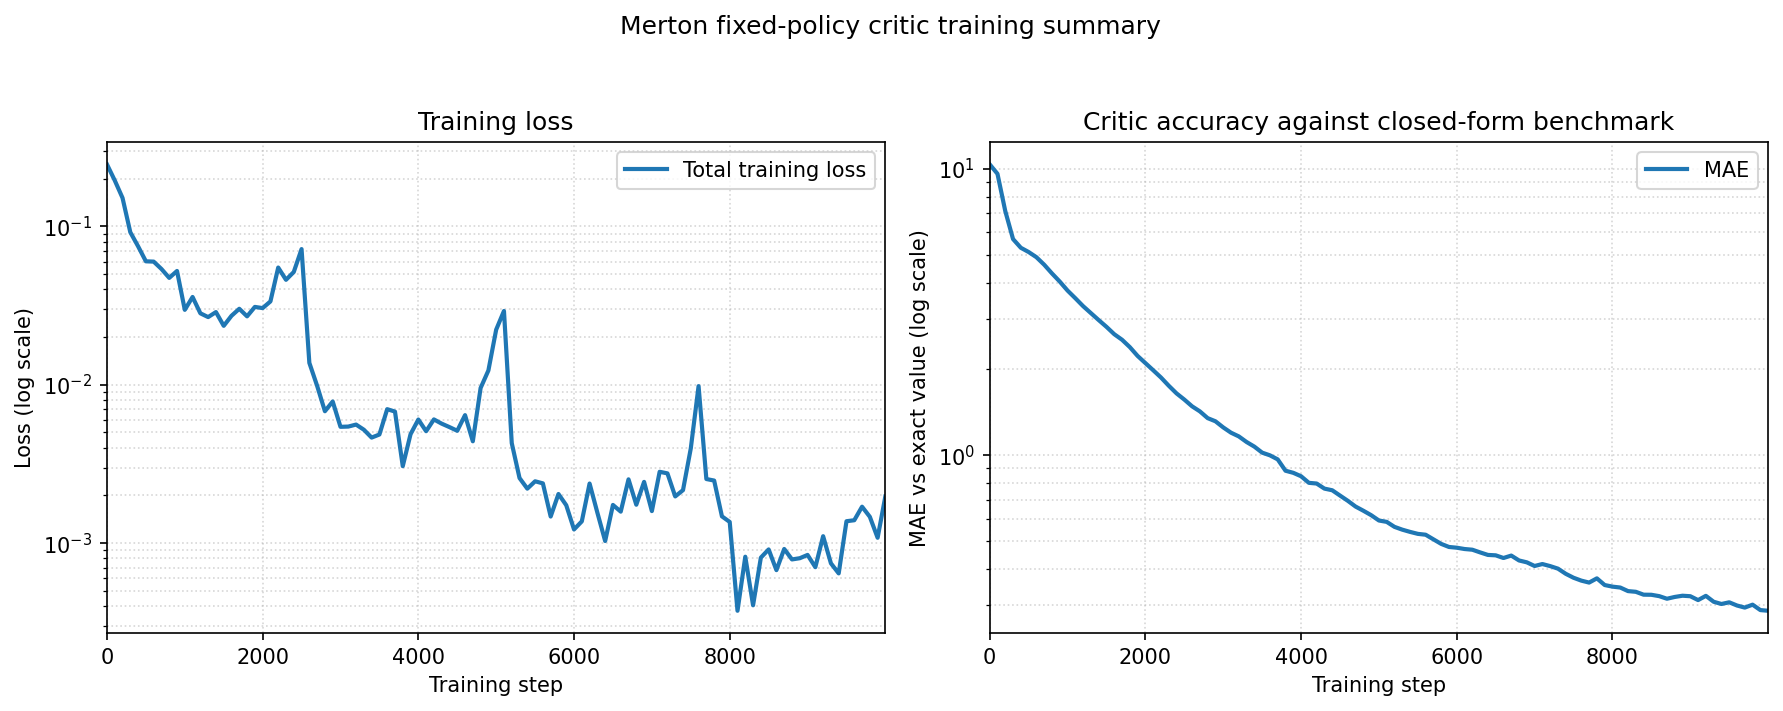
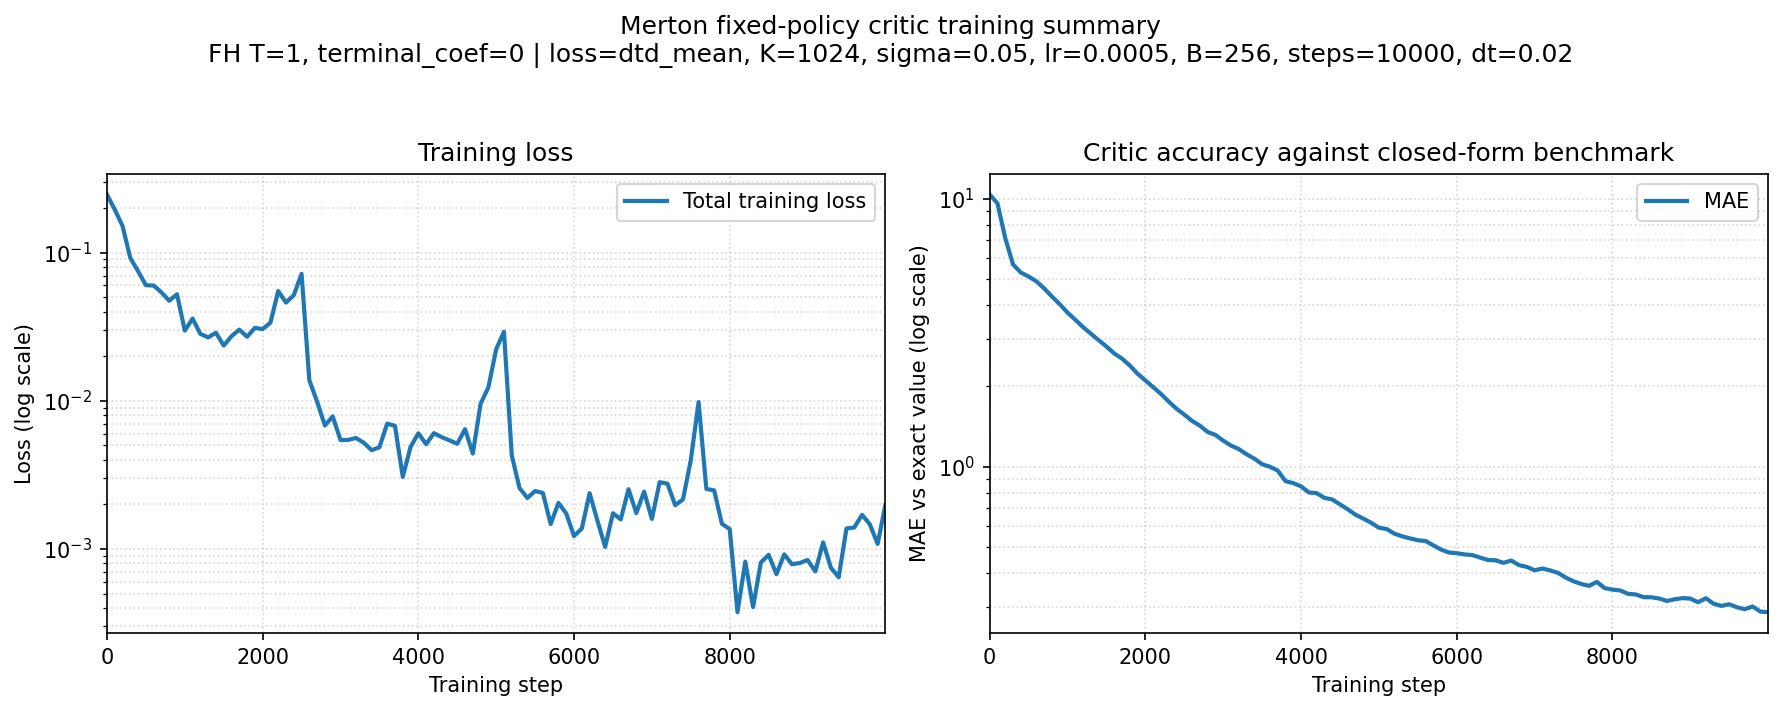
detailed plots

diff --git a/src/merton_dtd/plotting.py b/src/merton_dtd/plotting.py
@@ -26,6 +26,39 @@ def _nice_log_ticks(xmin: float, xmax: float) -> np.ndarray:
     return ticks
 
 
+def _format_run_title(result: dict, base: str) -> str:
+    def fmt(value) -> str:
+        if isinstance(value, (int, float, np.integer, np.floating)):
+            return f"{value:g}"
+        return str(value)
+
+    meta = result.get("meta", {})
+    params = meta.get("params", {})
+    train_cfg = meta.get("train_cfg", {})
+    horizon = meta.get("horizon")
+
+    loss = meta.get("loss_name", "unknown loss")
+    sigma = params.get("sigma", "?")
+    lr = train_cfg.get("learning_rate", "?")
+    batch_size = train_cfg.get("batch_size", "?")
+    num_steps = train_cfg.get("num_steps", "?")
+    dt = train_cfg.get("dt", "?")
+    num_replicas = train_cfg.get("num_replicas", 1)
+
+    if horizon is None:
+        horizon_part = "IH"
+    else:
+        T = horizon.get("T", "?")
+        terminal_coef = horizon.get("terminal_coef", "?")
+        horizon_part = f"FH T={fmt(T)}, terminal_coef={fmt(terminal_coef)}"
+
+    details = (
+        f"{horizon_part} | loss={loss}, K={num_replicas}, "
+        f"sigma={sigma}, lr={fmt(lr)}, B={batch_size}, steps={num_steps}, dt={fmt(dt)}"
+    )
+    return f"{base}\n{details}"
+
+
 def plot_value_fit(result: dict, out_file: str | Path) -> None:
     summary = result["summary"]
     wealth = np.asarray(summary["wealth"], dtype=float)
@@ -33,7 +66,7 @@ def plot_value_fit(result: dict, out_file: str | Path) -> None:
     pred = np.asarray(summary["pred"], dtype=float)
 
     if pred.ndim == 2:
-        _plot_finite_horizon_value_fit(summary, out_file)
+        _plot_finite_horizon_value_fit(result, out_file)
         return
 
     fig, ax = plt.subplots(figsize=(8, 5))
@@ -50,7 +83,7 @@ def plot_value_fit(result: dict, out_file: str | Path) -> None:
 
     ax.set_xlabel("Current wealth $W_t$")
     ax.set_ylabel("Value $V(W_t)$")
-    ax.set_title("Fixed-policy Merton problem:\nExact value function vs learned critic")
+    ax.set_title(_format_run_title(result, "Exact value function vs learned critic"))
     ax.grid(True, which="both", linestyle=":", alpha=0.5)
     ax.legend(frameon=True)
     fig.tight_layout()
@@ -60,7 +93,8 @@ def plot_value_fit(result: dict, out_file: str | Path) -> None:
     plt.close(fig)
 
 
-def _plot_finite_horizon_value_fit(summary: dict, out_file: str | Path) -> None:
+def _plot_finite_horizon_value_fit(result: dict, out_file: str | Path) -> None:
+    summary = result["summary"]
     wealth = np.asarray(summary["wealth"], dtype=float)
     time = np.asarray(summary["t_grid"], dtype=float)
     truth = np.asarray(summary["truth"], dtype=float)
@@ -104,7 +138,7 @@ def _plot_finite_horizon_value_fit(summary: dict, out_file: str | Path) -> None:
     axes[1].set_title("Absolute error over finite-horizon grid")
     fig.colorbar(mesh, ax=axes[1], label="|learned - exact|")
 
-    fig.suptitle("Finite-horizon Merton critic fit", fontsize=12)
+    fig.suptitle(_format_run_title(result, "Finite-horizon Merton critic fit"), fontsize=12)
     fig.tight_layout(rect=[0, 0, 1, 0.95])
 
     Path(out_file).parent.mkdir(parents=True, exist_ok=True)
@@ -139,7 +173,7 @@ def plot_training_curves(result: dict, out_file: str | Path) -> None:
     axes[1].grid(True, which="both", linestyle=":", alpha=0.5)
     axes[1].legend(frameon=True)
 
-    fig.suptitle("Merton fixed-policy critic training summary", fontsize=12)
+    fig.suptitle(_format_run_title(result, "Merton fixed-policy critic training summary"), fontsize=12)
     fig.tight_layout(rect=[0, 0, 1, 0.95])
 
     Path(out_file).parent.mkdir(parents=True, exist_ok=True)